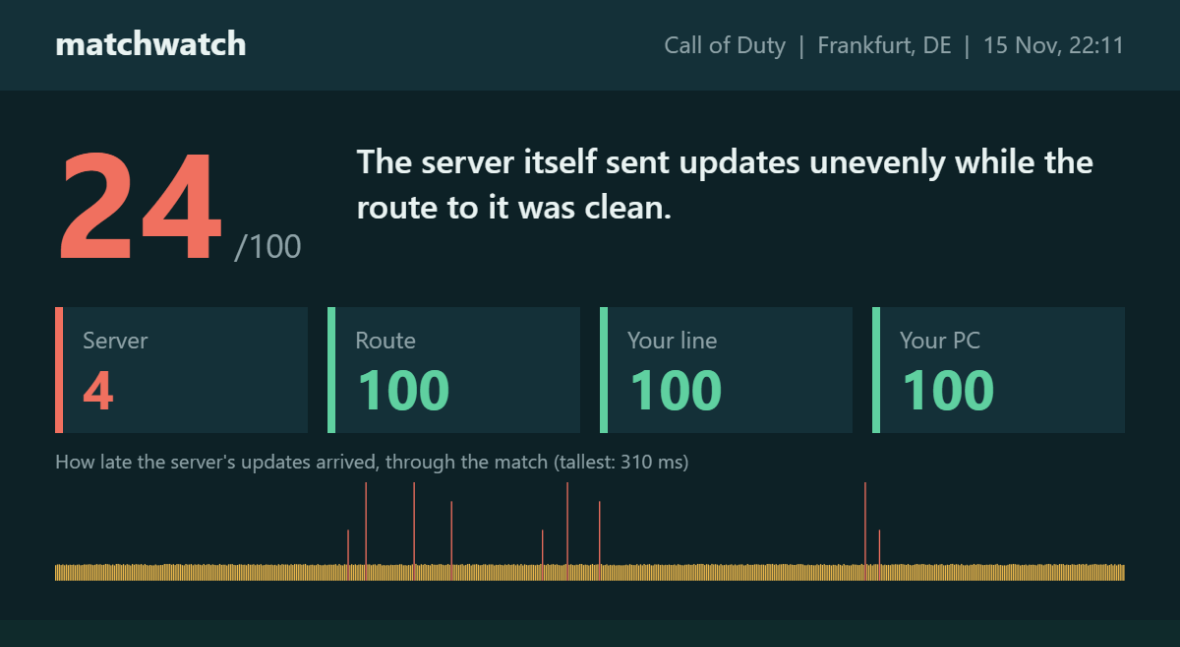
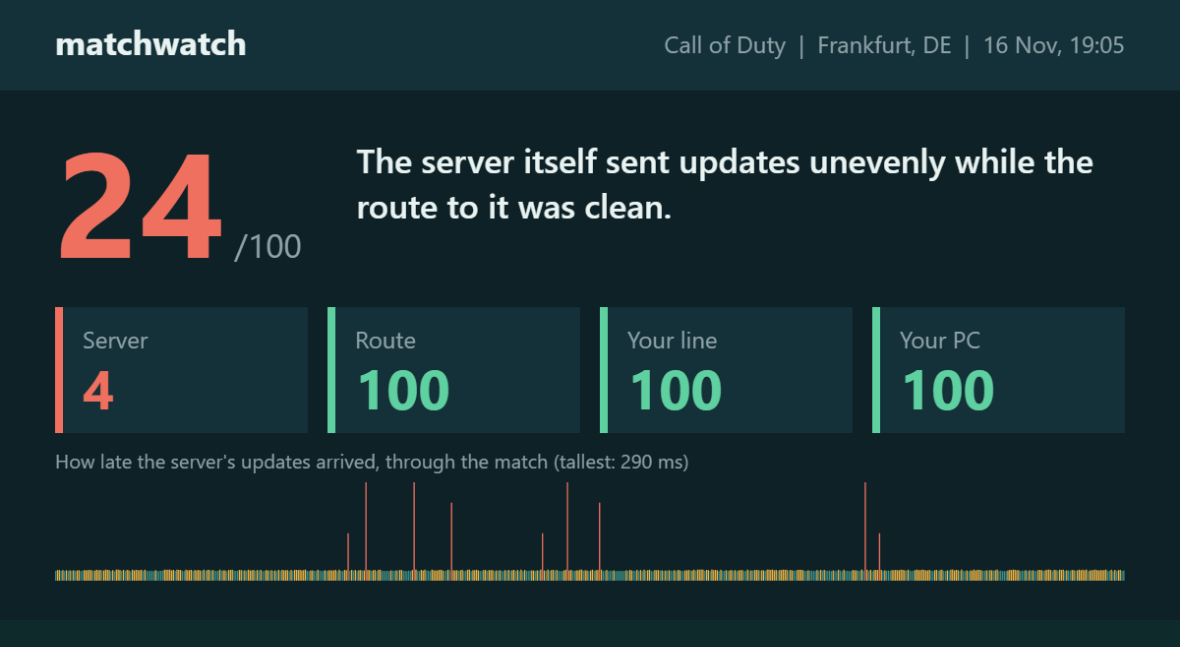
0.38.3: the overlay, the match picture and the network section judge lateness, not the raw gap
In OBS the overlay showed Server amber with a mark every second through
a clean match, while the Live page beside it showed nothing wrong. The
per-second figure is the longest gap between updates, which is 48 ms
for a server sending 21 a second when all is well. All three now take
the stream's normal beat away first, as the Live chart does.

diff --git a/luci-app-matchwatch/htdocs/luci-static/resources/matchwatch/dashboard.js b/luci-app-matchwatch/htdocs/luci-static/resources/matchwatch/dashboard.js
@@ -28,7 +28,7 @@ var page = "", pageArg = "", armed = 0, view = shadow.getElementById("view");
 // another, MatchWatch has been updated under this page: the browser's stored copies of the dashboard
 // files are fetched afresh, which replaces them, and the page reloads itself. Without this an updated
 // router kept showing the old dashboard until the browser happened to let go of it.
-var BUILT = "0.38.2", reloading = false;
+var BUILT = "0.38.3", reloading = false;
 function freshReload() {
 	var urls = {}, go = function () { location.reload(); };
 	try { performance.getEntriesByType("resource").forEach(function (e) { if (/\/matchwatch\/[^?]*\.(js|css)(\?|$)/.test(e.name)) urls[e.name] = 1; }); } catch (e) {}
@@ -912,12 +912,19 @@ function ovPaint() {
 	var N = 60, td = (s.tl_d || []).slice(-N), tu = (s.tl_u || []).slice(-N), tp = (s.tl_p || []).slice(-N), tn = (s.tl_n || []).slice(-N);
 	function pad(a) { while (a.length < N) a.unshift(0); return a; }
 	td = pad(td); tu = pad(tu); tp = pad(tp); tn = pad(tn);
+	// tl_d and tl_u are the longest gap in each second, not lateness: a server sending 21 updates a second
+	// has a gap of 48 ms when all is well. The first overlay read that as 48 ms late and lit Server amber
+	// through a clean match, while the Live page beside it showed nothing wrong. So, as the Live chart does,
+	// take the stream's own normal beat away first, and call a second felt on the chart's own line.
+	var dn = median(td), un = median(tu);
+	var late = td.map(function (v, k) { return v >= 1000 && tu[k] >= 1000 ? 0 : Math.max(0, v - dn); }), paus = tu.map(function (v, k) { return v >= 1000 && td[k] >= 1000 ? 0 : Math.max(0, v - un); });
+	var feltD = Math.max(30, dn);
 	var nb = s.navg || median(tn), hasN = tn.some(function (v) { return v > 0; });
 	var gap = tp.map(function (v, k) { return v > 0 ? (hasN && tn[k] > 0 ? v - tn[k] : v) : 0; }), gb = median(gap);
 	function sev(v, a, b, c) { return v >= c ? 3 : v >= b ? 2 : v >= a ? 1 : 0; }
-	var vL = tn.map(function (v) { return v > 0 && nb ? Math.max(0, v - nb) : 0; }), sL = vL.map(function (v) { return sev(v, 4, 8, 20); });
+	var vL = tn.map(function (v) { return v > 0 && nb ? Math.max(0, v - nb) : 0; }), sL = vL.map(function (v) { return sev(v, 8, 15, 30); });
 	var vR = gap.map(function (v) { return v > 0 && gb ? Math.max(0, v - gb) : 0; }), sR = vR.map(function (v, k) { return sL[k] >= 2 ? 0 : sev(v, 5, 10, 25); });
-	var sS = td.map(function (v, k) { return sL[k] >= 2 || sR[k] >= 2 ? 0 : sev(v, 15, 40, 100); }), sP = tu.map(function (v) { return sev(v, 25, 50, 100); });
+	var sS = late.map(function (v, k) { return sL[k] >= 2 || sR[k] >= 2 ? 0 : v > Math.max(100, feltD) ? 3 : v > feltD ? 2 : v >= feltD / 2 ? 1 : 0; }), sP = paus.map(function (v) { return sev(v, 50, 100.01, 200); });
 	function now(a) { var m = 0, k; for (k = N - 5; k < N; k++) if (a[k] > m) m = a[k]; return m >= 3 ? "bad" : m === 2 ? "mid" : "ok"; }
 	var COL = { ok: "#5fd0a0", mid: "#e8b64c", bad: "#f0705f", idle: "#8fa3a8" }, MARK = ["", "#5fd0a0", "#e8b64c", "#f0705f"];
 	if (show.place || show.game) {
@@ -929,8 +936,8 @@ function ovPaint() {
 		// each area can be left out on its own: someone whose ISP answers no pings has no use for a Line row
 		var grid = h("span", { cls: "ovg" }), ar = (q.areas || "server,route,line,pc").split(",");
 		if (ar.length < 3) grid.className = "ovg one";
-		[["Server", td, sS, 130, s.ping == null && !td.length ? "idle" : now(sS)], ["Route", vR, sR, 32, s.ping == null ? "idle" : now(sR)],
-		 ["Line", vL, sL, 26, hasN ? now(sL) : "idle"], ["PC", tu, sP, 130, now(sP)]].forEach(function (a) {
+		[["Server", late, sS, 130, now(sS)], ["Route", vR, sR, 32, s.ping == null ? "idle" : now(sR)],
+		 ["Line", vL, sL, 26, hasN ? now(sL) : "idle"], ["PC", paus, sP, 200, now(sP)]].forEach(function (a) {
 			if (ar.indexOf(a[0].toLowerCase()) < 0) return;
 			var st = a[4], row = h("span", { cls: "ova " + st }, h("i"), h("span", a[0]));
 			if (show.lines || show.marks) {
@@ -979,13 +986,14 @@ function proofCard(m) {
 		g.fillStyle = cardColour(p[1]); g.font = "700 56px " + F; g.fillText(p[1] == null ? "n/a" : String(Math.round(p[1])), bx + 28, by + 104);
 	});
 	// how late the server's updates were, second by second
-	var d = m.tl_d || [], n = d.length, top = 0, gx = 56, gy = 590, gw = W - 112, gh = 100;
+	var raw = m.tl_d || [], dnom = m.nom ? 1000 / m.nom : median(raw), d = raw.map(function (v) { return v >= 1000 ? 0 : Math.max(0, v - dnom); }), feltC = Math.max(30, dnom);
+	var n = d.length, top = 0, gx = 56, gy = 590, gw = W - 112, gh = 100;
 	for (i = 0; i < n; i++) if (d[i] > top) top = d[i];
 	top = Math.max(top, 60);
 	g.fillStyle = "#8fa3a8"; g.font = "400 20px " + F; g.fillText("How late the server's updates arrived, through the match (tallest: " + Math.round(top) + " ms)", gx, gy - gh - 14);
 	for (i = 0; i < n; i++) {
 		var bh = Math.max(2, d[i] / top * gh), px = gx + i / n * gw;
-		g.fillStyle = d[i] >= 100 ? "#f0705f" : d[i] >= 40 ? "#e8b64c" : "#3f8f86";
+		g.fillStyle = d[i] > Math.max(100, feltC) ? "#f0705f" : d[i] > feltC ? "#e8b64c" : "#3f8f86";
 		g.fillRect(px, gy - bh, Math.max(1, gw / n - 0.5), bh);
 	}
 	return c;
@@ -1039,6 +1047,7 @@ function netBlock(m) {
 		if (quiet.length < 3) { says.push([0, who + " was busy all through this match (" + what + "), so there is no quiet stretch to compare it with."]); return; }
 		var lb = avg(busy.map(function (i) { return span(td, i, 1); })), lq = avg(quiet.map(function (i) { return span(td, i, 1); }));
 		var pb = avg(busy.map(function (i) { return span(tp, i, ps); })), pq = avg(quiet.map(function (i) { return span(tp, i, ps); }));
+		var nd = median(td); if (lb != null) lb = Math.max(0, lb - nd); if (lq != null) lq = Math.max(0, lq - nd);
 		var late = lb != null && lq != null && lb >= lq + 5 && lb >= lq * 1.5, ping = pb != null && pq != null && pb >= pq + 5 && pb >= pq * 1.3;
 		if (late || ping) says.push([1, "While " + who + " was " + what + " (" + mins(busy.length * step) + " of this match), " +
 			(late ? "the game's updates arrived " + fmt(lb, 0) + " ms late on average, against " + fmt(lq, 0) + " ms the rest of the time" : "") + (late && ping ? ", and " : "") +

diff --git a/test/mockshots.py b/test/mockshots.py
@@ -109,7 +109,7 @@ def build(site):
     blocks = [{"ip": DCS["mad"][5][0].rsplit(".", 1)[0] + ".0/24", "days": None, "reason": "stay"}, {"ip": "203.0.113.77", "days": 12, "reason": "manual"}]
     for s in servers: s["blocked"] = s["ip"] == "203.0.113.77"; s["in"] = s["cc"] in ("DE", "SE"); s["lat"], s["lon"] = {"DE": (50.11, 8.68), "SE": (59.33, 18.07), "ES": (40.42, -3.70)}[s["cc"]]
     out = {"history": hist, "servers": servers, "datacentres": dlist, "regions": rj, "blocklist": blocks,
-           "info": {"version": "0.38.2", "ping": [5, 45], "device": "192.168.1.50", "stay": "Germany + Sweden", "autoblock": False, "notify": True, "pc_score": True, "geo": True, "block_days": 14, "stays": ["Near Frankfurt 450 km", "Sweden"], "web": False, "qosmate": True, "away": 412, "allowed": ["192.0.2.150"], "lan_if": "br-lan", "wan_if": "pppoe-wan", "qos_if": "eth1", "port_warn": "", "pool": [{"n": 1, "name": "Near Frankfurt 450 km", "lat": 50.11, "lon": 8.68, "km": 450, "cc": ""}, {"n": 2, "name": "Sweden", "lat": None, "lon": None, "km": 0, "cc": "SE"}]}}
+           "info": {"version": "0.38.3", "ping": [5, 45], "device": "192.168.1.50", "stay": "Germany + Sweden", "autoblock": False, "notify": True, "pc_score": True, "geo": True, "block_days": 14, "stays": ["Near Frankfurt 450 km", "Sweden"], "web": False, "qosmate": True, "away": 412, "allowed": ["192.0.2.150"], "lan_if": "br-lan", "wan_if": "pppoe-wan", "qos_if": "eth1", "port_warn": "", "pool": [{"n": 1, "name": "Near Frankfurt 450 km", "lat": 50.11, "lon": 8.68, "km": 450, "cc": ""}, {"n": 2, "name": "Sweden", "lat": None, "lon": None, "km": 0, "cc": "SE"}]}}
     out["favourites"] = [servers[-1]["ip"], servers[-2]["ip"], servers[-4]["ip"]]
     out["mygames"] = [{"name": "Fortnite", "ports": "9000-9100", "kind": "", "hosts": ""}, {"name": "Call of Duty", "ports": "3074,30000-45000", "kind": "", "hosts": "vultr,as20473"}, {"name": "Not a game", "ports": "19306", "kind": "voice", "hosts": ""}]
     out["gameplaces"] = [
@@ -147,8 +147,8 @@ def build(site):
     _s = out["status"]["sessions"][0]; _n = len(_s.get("tl_p", []))
     _s["tl_n"] = [round(3.7 + random.uniform(-0.2, 0.2), 1) for _ in range(_n)]; _s["near"] = 3.7; _s["navg"] = 3.7
     _s["tl_p"] = [round(18 + random.uniform(-0.4, 0.4) + (14 if _n - 42 <= i < _n - 39 else 0), 1) for i in range(_n)]; _s["ping"] = 18; _s["pavg"] = 18.2
-    _s["tl_d"] = [(22 if i == len(_s["tl_d"]) - 25 else 3) for i in range(len(_s["tl_d"]))]
-    _s["tl_u"] = [(70 if i == len(_s["tl_u"]) - 14 else 0) for i in range(len(_s["tl_u"]))]
+    _s["tl_d"] = [(76 if i == len(_s["tl_d"]) - 25 else round(48 + random.uniform(-3, 3), 1)) for i in range(len(_s["tl_d"]))]
+    _s["tl_u"] = [(92 if i == len(_s["tl_u"]) - 14 else round(17 + random.uniform(-2, 2), 1)) for i in range(len(_s["tl_u"]))]
     for name, j in out.items(): json.dump(j, open(f"{data}/{name}.json", "w"))
     open(site + "/matchwatch/index.html", "w", encoding="utf-8", newline="\n").write("""<!DOCTYPE html><html lang="en"><head><meta charset="utf-8"><meta name="viewport" content="width=device-width, initial-scale=1"><title>matchwatch</title>
 <style>html, body { margin: 0; background: #0f2a2b; }</style></head><body><div id="mw"></div><script src="/%s/dashboard.js"></script><script>
@@ -208,7 +208,7 @@ ratings: 3 server rating(s) from someone else. They are shown to you and mention
 Took in 3 server rating(s). They are listed on the Tools page.`;
 		if (p.action === "linetest" || p.action === "trace" || p.action === "nat" || p.action === "natfix" || p.action === "natunfix") out = "1";
 		if (p.action === "qosadvice") out = "QoSmate holds your line to 60 Mbit down and 18 Mbit up. This looks at your last 14 matches.\\n\\nThe limits look right: in 4 matches your line reached 70%% of its limit, and it was as steady in those as in the 9 where it stayed quiet (0.4 ms of jitter against 0.3 ms). A short burst in a long match weighs little here, so take this as a sign, not proof.\\n\\nThe queue QoSmate keeps for your game never backed up: 0.6 ms at most over 14 matches.\\n\\nWhat this cannot tell you: whether the limits are lower than they need to be. Matches only show a limit that is too high.";
-		if (p.action === "updatecheck") out = "Version 0.24.0 is available. You have 0.38.2.";
+		if (p.action === "updatecheck") out = "Version 0.24.0 is available. You have 0.38.3.";
 		return Promise.resolve({ ok: true, out: out });
 	} });
 // for the README: the shareable picture on its own, and the network section on its own

diff --git a/CLAUDE.md b/CLAUDE.md
@@ -1,6 +1,6 @@
 # matchwatch: notes for whoever works on this next
 
-matchwatch runs on an OpenWrt router and judges each online match: the game server, the route to it, the player's own line and their PC. It works from packet timing only and never alters game traffic. Version 0.38.2.
+matchwatch runs on an OpenWrt router and judges each online match: the game server, the route to it, the player's own line and their PC. It works from packet timing only and never alters game traffic. Version 0.38.3.
 
 ## Layout
 
@@ -59,7 +59,7 @@ Match mode (0.30.0, off by default, `match_mode`): QoSmate's cake limit on durin
 
 Ports (0.33.0): `ports_check` tests the three ports and prints `ok`, `note` or `WARN` lines, each saying where to correct it: `LAN_IF` (must exist; with a device chosen, must be the port `ip route get <device>` names), `WAN_IF` (must exist and be the default route's port), and `QWAN` (QoSmate's setting must name a real port with a cake, hfsc or htb queue on it). `cmd_doctor` prints them, `info.json` carries `lan_if`, `wan_if`, `qos_if` and `port_warn` (the warnings joined), the Tools page shows `port_warn` as a banner on every tab and lists the ports under Settings in use. The owner asked whether to add a port picker: no for QoSmate's port, because a second setting that can disagree with QoSmate's is what caused the bug; the LAN and WAN fields under Settings, Advanced, already exist for the other two. Tested in a sandbox and on the owner's router; the warnings themselves only against invented cases.
 
-The overlay, second design (0.38.2): the owner did not take to the pill of three lights and asked to see a redesign before anything changed. Four mock-ups later they chose a compact bar: place and game, ping, then the four areas in two rows of two, each with a light, a line of its last minute that changes colour, and marks underneath that stay (green a blip, amber felt, red bad). `status.json` now carries `near`, `navg`, `pavg` and `tl_n` (the ISP's first hop, live, from the probe's `near.last`, on the same seconds as `tl_p`), which is what lets it tell line from route. Per second and per area `ovPaint` works out a severity 0 to 3: line from `tl_n` over its average (4, 8, 20 ms), route from `tl_p - tl_n` over its median (5, 10, 25), server from `tl_d` (15, 40, 100), PC from `tl_u` (25, 50, 100); a second already explained by the line is not also charged to the route, nor one explained by either to the server. The light is the worst of the last five seconds. Each of the four areas can be left out too (`&areas=server,route,pc`), which the owner asked for so that someone whose ISP's first hop answers no pings can drop the Line row; with one or two areas the grid is a single column. Every part is optional and travels in the address (`#/overlay?show=place,game,ping,lights,lines,marks,rate,time&size=s|m|l&idle=0`; `route()` parses it into `OVQ`), and the Tools row builds the address from tick boxes. The bar is sized in em, so the three sizes are one font-size. The live split has never been checked against a real rough match and its lines are first guesses; the match report stays the final word. Show the owner a design before building a look they have to live with.
+The overlay, second design (0.38.2): the owner did not take to the pill of three lights and asked to see a redesign before anything changed. Four mock-ups later they chose a compact bar: place and game, ping, then the four areas in two rows of two, each with a light, a line of its last minute that changes colour, and marks underneath that stay (green a blip, amber felt, red bad). `status.json` now carries `near`, `navg`, `pavg` and `tl_n` (the ISP's first hop, live, from the probe's `near.last`, on the same seconds as `tl_p`), which is what lets it tell line from route. Per second and per area `ovPaint` works out a severity 0 to 3: line from `tl_n` over its average (4, 8, 20 ms), route from `tl_p - tl_n` over its median (5, 10, 25), server from `tl_d` (15, 40, 100), PC from `tl_u` (25, 50, 100); a second already explained by the line is not also charged to the route, nor one explained by either to the server. The light is the worst of the last five seconds. Each of the four areas can be left out too (`&areas=server,route,pc`), which the owner asked for so that someone whose ISP's first hop answers no pings can drop the Line row; with one or two areas the grid is a single column. Every part is optional and travels in the address (`#/overlay?show=place,game,ping,lights,lines,marks,rate,time&size=s|m|l&idle=0`; `route()` parses it into `OVQ`), and the Tools row builds the address from tick boxes. The bar is sized in em, so the three sizes are one font-size. The owner's first OBS test (0.38.3) showed Server amber with a mark every second through a clean match while the Live page beside it showed nothing wrong: `tl_d` and `tl_u` are the longest gap in each second, not lateness, so a server sending 21 updates a second reads 48 ms when all is well, and the overlay had judged the raw figure. It now does what `drawChart` does: takes the median away first and calls a second felt above `max(30, median)` for the server and above 100 ms for the PC (a blip at half that, bad at 100 and 200), and the line's own steps went up to 8, 15 and 30 ms because the ISP's first hop answers pings unevenly. The picture of a match and the network section had the same fault and the same correction. Anything new that reads `tl_d` or `tl_u` must subtract the normal beat. The live split has never been checked against a real rough match and its lines are first guesses; the match report stays the final word. Show the owner a design before building a look they have to live with.
 
 The README (0.38.1): the owner asked for it to be redone with fewer, better pictures once those three were in. It now opens with what you get, one short section and one picture per thing, and the manual follows unchanged. `test/mockshots.py` makes eight pictures and no others (`match-report`, `live`, `overlay`, `card`, `network`, `map`, `pingrange`, `tools`); `?shot=card` and `?shot=net` in the mock page show the shareable picture and the network section on their own. Add a picture only for a feature worth a section at the top.
 

diff --git a/README.md b/README.md
@@ -1,6 +1,6 @@
 # MatchWatch
 
-**Tells you why a match felt bad, from your OpenWrt router. v0.38.2 (pre-release)**
+**Tells you why a match felt bad, from your OpenWrt router. v0.38.3 (pre-release)**
 
 ![A match report: the verdict, four scores and the whole match on one chart](docs/match-report.png)
 
